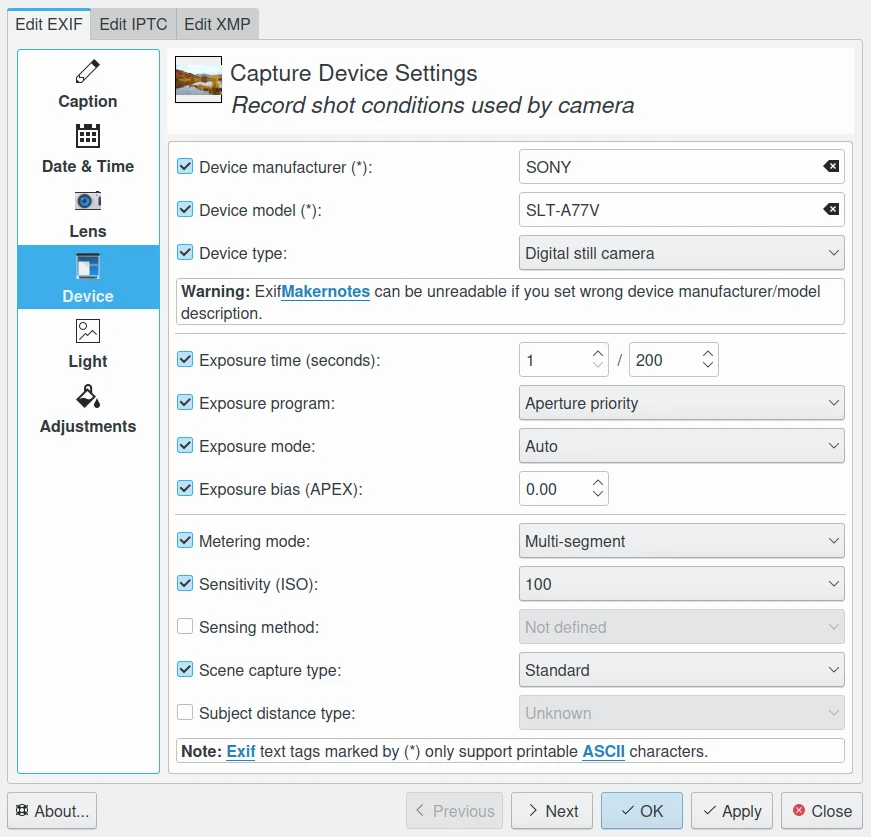
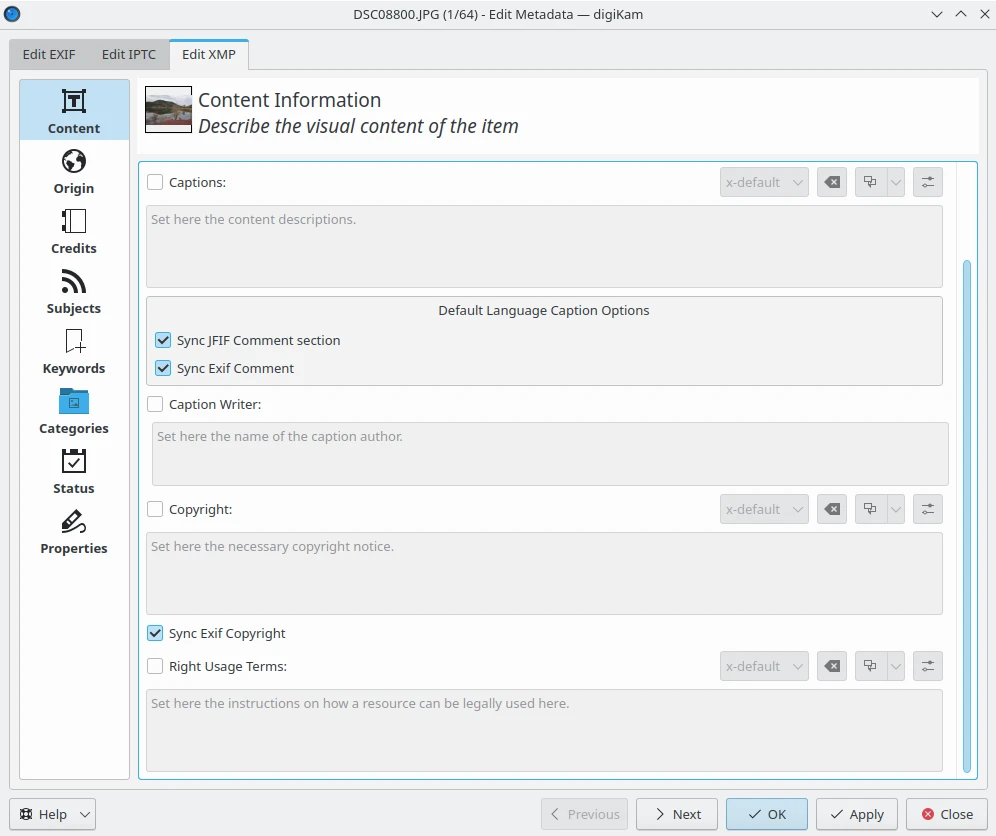
update dialog preview. add explaination about previous and next buttons

diff --git a/post_processing/metadata_editor.rst b/post_processing/metadata_editor.rst
@@ -34,6 +34,8 @@ In addition to Exif, IPTC and XMP formats are supported, so you can perform the 
 
 You can synchronize some specific metadata entries from one chunk to another one, as for example the comments which is available in Exif, IPTC, and XMP as separate entries. Mark the check boxes corresponding to the entries you wish to copy from one format to another.
 
+If you select many items from the icon-view, the metadata editor dialog allow to process the selection. With the **Previous** and **Next** buttons, you can navigate between items. The current filename and the index in the selection are given on the dialog title. A preview of current item is visible on the dialog header from the top.
+
 .. caution::
 
     Synchronizing metadata may produce undesired results because Exif is limited to ASCII character-set.
